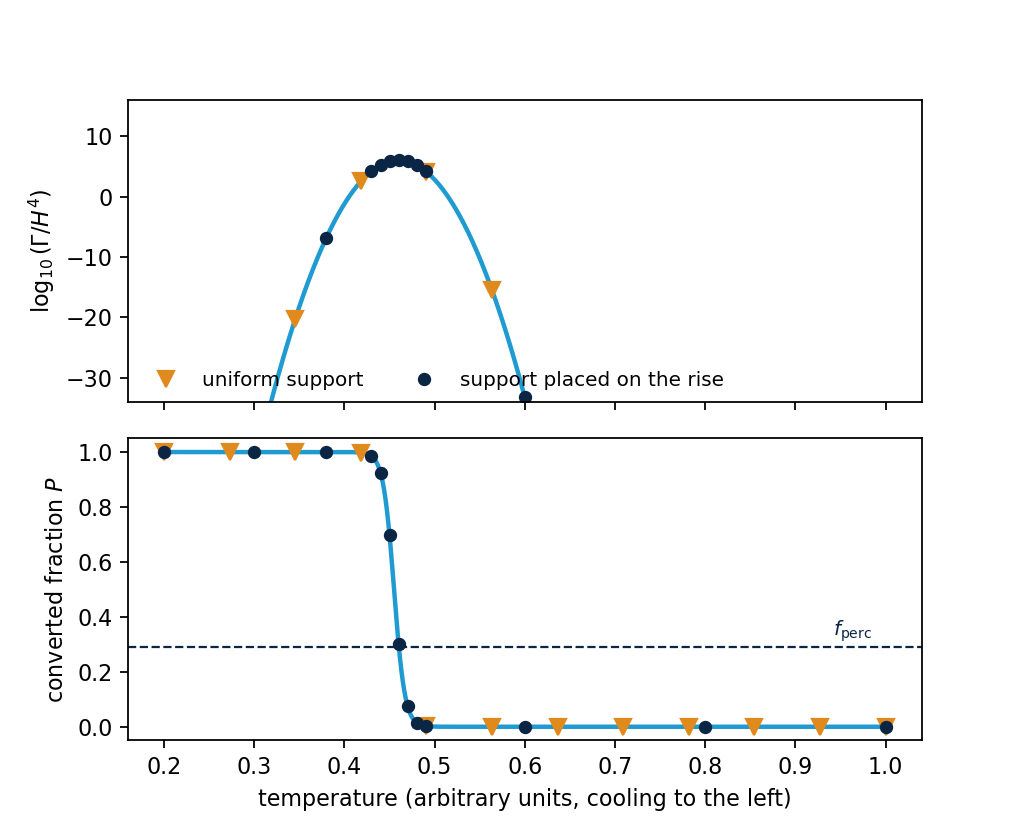
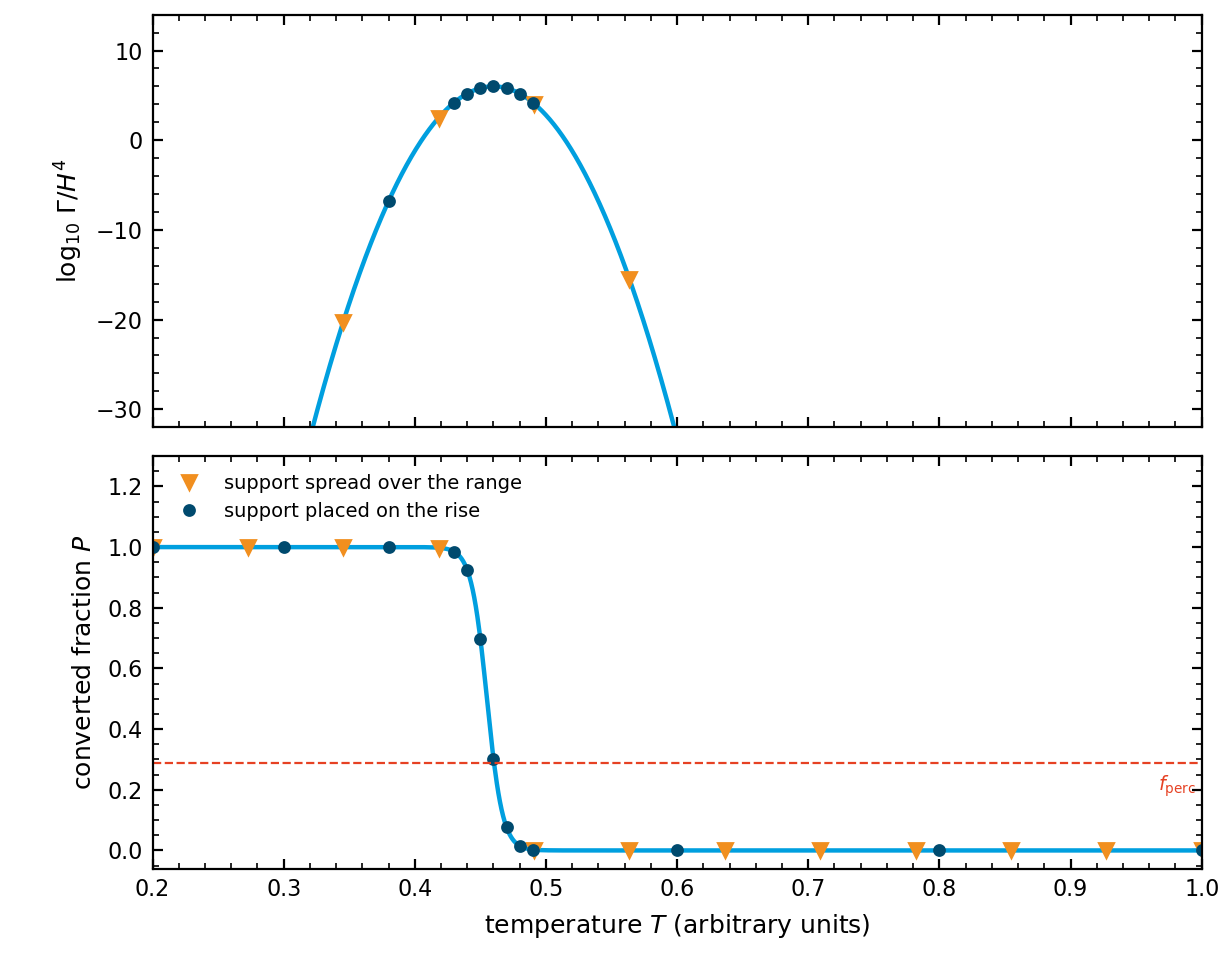
Show what the shooting does, in the house figure style, and drop the admonitions

diff --git a/docs/make_algorithm_figures.py b/docs/make_algorithm_figures.py
@@ -7,28 +7,46 @@ Run from the repository root with the source tree on the path::
 
 Each figure is written to ``docs/source/_static/`` and is reproducible from this script alone,
 so that a change in the code shows up in the figure rather than being quietly contradicted by
-it. The models used are the ones shipped with the package.
+it. The models are the ones shipped with the package.
+
+The figures follow the house style: sans-serif at 9 pt, ticks inward on all four sides, no
+grid, frameless legends, and the DESY palette from ``transitionlistener.colors``.
 """
 from __future__ import annotations
 
 import pathlib
-import sys
 
 import numpy as np
 import matplotlib
 matplotlib.use("Agg")
+import matplotlib as mpl
 import matplotlib.pyplot as plt
+
+from transitionlistener.colors import (DESYcyan, DESYorange, DESYdunkelblau,
+                                       DESYaubergine, DESYrot)
 
 OUT = pathlib.Path(__file__).resolve().parent / "source" / "_static"
 OUT.mkdir(parents=True, exist_ok=True)
 
-INK = "#0b2545"
-ACCENT = "#1f9bd1"
-WARM = "#e08a1e"
+#: Width of the documentation's text column, in inches.
+WIDTH = 6.1
 
 
-def figure_bounce_profile() -> None:
-    """The bounce profile, with the radius inside which a trial counts as arrived."""
+def use_house_style() -> None:
+    mpl.rcParams.update({
+        "font.size": 9, "axes.labelsize": 9, "axes.titlesize": 9, "legend.fontsize": 7,
+        "xtick.labelsize": 8, "ytick.labelsize": 8,
+        "xtick.direction": "in", "ytick.direction": "in",
+        "xtick.top": True, "ytick.right": True,
+        "xtick.minor.visible": True, "ytick.minor.visible": True,
+        "axes.grid": False, "axes.linewidth": 0.8,
+        "font.family": "sans-serif", "mathtext.fontset": "dejavusans",
+        "axes.unicode_minus": True,
+    })
+
+
+def figure_shooting() -> None:
+    """What the shooting does: an undershoot, an overshoot and the solution."""
     from transitionlistener.tunneling1D import SingleFieldInstanton
 
     def V(phi):
@@ -38,89 +56,115 @@ def figure_bounce_profile() -> None:
         return phi * (phi - 0.2) * (phi - 1.0)
 
     inst = SingleFieldInstanton(1.0, 0.0, V, dV)
-    prof = inst.findProfile()
-    r, phi = prof.R, prof.Phi
+    solved = inst.findProfile()
+    delta_phi = inst.phi_metaMin - inst.phi_absMin
+    x_solved = -np.log(abs(solved.Phi[0] - inst.phi_absMin) / abs(delta_phi))
+    rmax = solved.R[-1]
 
-    # the acceptance radius the integration uses, as the page describes it
-    phitol = 1e-10
-    excursion = abs(phi[0] - inst.phi_metaMin)
-    epsabs = phitol * excursion
-    band = 3 * epsabs
+    def trial(x):
+        """Integrate one trial until it over- or undershoots, and save that much of it.
 
-    fig, ax = plt.subplots(figsize=(6.4, 4.0))
-    ax.plot(r, phi, color=ACCENT, lw=2.2, label=r"$\phi(r)$")
-    ax.axhline(inst.phi_metaMin, color=INK, lw=1.0, ls="--",
-               label=r"false vacuum $\phi_{\rm false}$")
-    ax.axhline(inst.phi_absMin, color=INK, lw=1.0, ls=":",
-               label=r"true vacuum $\phi_{\rm true}$")
+        A trial cannot be integrated to a fixed outer radius: an overshoot runs past the false
+        vacuum and the field then diverges. `integrateProfile` is what finds where the trial
+        ends, and only that interval is saved.
+        """
+        delta_phi0 = np.exp(-x) * delta_phi
+        r0, phi0, dphi0 = inst.initialConditions(delta_phi0, 1e-4, 1e-3 * delta_phi)
+        y0 = np.array([phi0, dphi0])
+        epsfrac = np.array([1.0, 1.0]) * 1e-8
+        epsabs = np.abs(np.array([delta_phi, delta_phi / inst.rscale]) * 1e-8)
+        rf, _, ctype = inst.integrateProfile(
+            r0, y0, 1e-4, epsfrac, epsabs, 1e-12, 10 * rmax)
+        R = np.linspace(r0, rf, 400)
+        prof = inst.integrateAndSaveProfile(R, y0, 1e-4, epsfrac, epsabs, 1e-12)
+        return prof.R, prof.Phi, ctype
 
-    # the acceptance band is far too narrow to see at this tolerance, so it is annotated
-    ax.annotate(
-        "a trial counts as arrived inside\n"
-        r"$3\,\epsilon_{\rm abs} = 3\,\phi_{\rm tol}\,|\phi(0)-\phi_{\rm false}|$"
-        "\n(too narrow to draw here)",
-        xy=(r[-1], inst.phi_metaMin), xytext=(0.52 * r[-1], 0.33),
-        color=INK, fontsize=9,
-        arrowprops=dict(arrowstyle="->", color=INK, lw=1.0))
+    use_house_style()
+    fig, ax = plt.subplots(figsize=(WIDTH, 0.58 * WIDTH))
 
-    ax.annotate(r"$\phi(0)$, the shooting unknown",
-                xy=(r[0], phi[0]), xytext=(0.12 * r[-1], 0.80),
-                color=WARM, fontsize=9,
-                arrowprops=dict(arrowstyle="->", color=WARM, lw=1.0))
+    # phi(0) = phi_true + exp(-x) (phi_false - phi_true), so a larger x starts nearer the
+    # true vacuum, with more energy, and overshoots.
+    r_o, p_o, c_o = trial(x_solved * 1.30)
+    r_u, p_u, c_u = trial(x_solved * 0.78)
+    assert c_u == "undershoot" and c_o == "overshoot", (c_u, c_o)
+
+    ax.plot(r_u, p_u, color=DESYorange, lw=1.4,
+            label="undershoot: turns back before the false vacuum")
+    ax.plot(r_o, p_o, color=DESYaubergine, lw=1.4,
+            label="overshoot: passes the false vacuum")
+    ax.plot(solved.R, solved.Phi, color=DESYcyan, lw=2.0, label="solution")
+    ax.axhline(inst.phi_metaMin, color=DESYdunkelblau, lw=0.8, ls="--")
 
     ax.set_xlabel(r"radius $r$")
     ax.set_ylabel(r"field $\phi$")
-    ax.set_xlim(0, r[-1])
-    ax.set_ylim(-0.05, 1.30)          # headroom so the legend clears the true-vacuum line
-    ax.legend(frameon=False, loc="upper right", fontsize=9)
-    fig.tight_layout()
-    fig.savefig(OUT / "algorithm_bounce_profile.png", dpi=160)
+    ax.set_xlim(0, rmax)
+    ax.set_ylim(-0.12, 1.06)
+    ax.text(0.04 * rmax, -0.075, "false vacuum", color=DESYdunkelblau, fontsize=7,
+            ha="left", va="center")
+    ax.legend(frameon=False, loc="upper right")
+    fig.subplots_adjust(left=0.105, right=0.985, bottom=0.145, top=0.975)
+    fig.savefig(OUT / "algorithm_shooting.png", dpi=200)
     plt.close(fig)
-    print("wrote", OUT / "algorithm_bounce_profile.png",
-          "(acceptance band %.3e in field units)" % band)
+    print("wrote", OUT / "algorithm_shooting.png")
 
 
 def figure_rate_and_support() -> None:
-    """Why the support has to resolve the rise of the rate, not the temperature range."""
-    # A schematic built from the shape the integrand actually has: log(Gamma/H^4) rises
-    # steeply, peaks, and dies. No model is run; the point is the shape and the sampling.
-    T = np.linspace(0.2, 1.0, 2000)
-    logG = -40.0 * (T - 0.46) ** 2 / 0.02 + 6.0          # a sharp rise and fall
-    P = 1.0 / (1.0 + np.exp((T - 0.455) / 0.006))        # the converted fraction
+    """Why the support is placed on the rise of the rate."""
+    T = np.linspace(0.20, 1.00, 2000)
+    logG = -40.0 * (T - 0.46) ** 2 / 0.02 + 6.0
+    P = 1.0 / (1.0 + np.exp((T - 0.455) / 0.006))
 
-    uniform = np.linspace(0.2, 1.0, 12)
-    adaptive = np.concatenate([
-        np.array([0.20, 0.30, 0.38]),
-        np.linspace(0.43, 0.49, 7),
-        np.array([0.60, 0.80, 1.00])])
+    uniform = np.linspace(0.20, 1.00, 12)
+    adaptive = np.concatenate([np.array([0.20, 0.30, 0.38]),
+                               np.linspace(0.43, 0.49, 7),
+                               np.array([0.60, 0.80, 1.00])])
 
-    fig, (a1, a2) = plt.subplots(2, 1, figsize=(6.4, 5.2), sharex=True,
-                                 gridspec_kw=dict(hspace=0.12))
-    a1.plot(T, logG, color=ACCENT, lw=2.0)
-    a1.set_ylabel(r"$\log_{10}(\Gamma/H^4)$")
-    a1.set_ylim(-34, 16)
-    a1.plot(uniform, np.interp(uniform, T, logG), "v", color=WARM, ms=7,
-            label="uniform support")
-    a1.plot(adaptive, np.interp(adaptive, T, logG), "o", color=INK, ms=5,
+    use_house_style()
+    fig, (a1, a2) = plt.subplots(2, 1, figsize=(WIDTH, 0.80 * WIDTH), sharex=True)
+    a1.plot(T, logG, color=DESYcyan, lw=1.6)
+    a1.plot(uniform, np.interp(uniform, T, logG), "v", color=DESYorange, ms=5, ls="none")
+    a1.plot(adaptive, np.interp(adaptive, T, logG), "o", color=DESYdunkelblau, ms=3.6, ls="none")
+    a1.set_ylabel(r"$\log_{10}\,\Gamma/H^4$")
+    a1.set_ylim(-32, 14)
+    a1.set_xlim(T[0], T[-1])
+
+    a2.plot(T, P, color=DESYcyan, lw=1.6)
+    a2.plot(uniform, np.interp(uniform, T, P), "v", color=DESYorange, ms=5, ls="none",
+            label="support spread over the range")
+    a2.plot(adaptive, np.interp(adaptive, T, P), "o", color=DESYdunkelblau, ms=3.6, ls="none",
             label="support placed on the rise")
-    a1.legend(frameon=False, fontsize=9, loc="lower left", ncol=2,
-              bbox_to_anchor=(0.0, -0.02))
-
-    a2.plot(T, P, color=ACCENT, lw=2.0)
-    a2.plot(uniform, np.interp(uniform, T, P), "v", color=WARM, ms=7)
-    a2.plot(adaptive, np.interp(adaptive, T, P), "o", color=INK, ms=5)
-    a2.axhline(0.28957, color=INK, lw=1.0, ls="--")
-    a2.text(0.985, 0.33, r"$f_{\rm perc}$", color=INK, fontsize=9, ha="right")
+    a2.axhline(0.28957, color=DESYrot, lw=0.8, ls="--")
     a2.set_ylabel(r"converted fraction $P$")
-    a2.set_xlabel("temperature (arbitrary units, cooling to the left)")
-    fig.tight_layout()
-    fig.savefig(OUT / "algorithm_rate_and_support.png", dpi=160)
+    a2.set_xlabel(r"temperature $T$ (arbitrary units)")
+    a2.set_ylim(-0.06, 1.30)
+    a2.set_xlim(T[0], T[-1])
+    a2.text(0.995, 0.255, r"$f_{\mathrm{perc}}$", color=DESYrot, fontsize=7,
+            ha="right", va="top", transform=a2.get_yaxis_transform())
+    a2.legend(frameon=False, loc="upper left")
+
+    fig.subplots_adjust(left=0.125, right=0.985, bottom=0.11, top=0.985, hspace=0.07)
+    fig.savefig(OUT / "algorithm_rate_and_support.png", dpi=200)
     plt.close(fig)
     print("wrote", OUT / "algorithm_rate_and_support.png")
 
 
+def _check(fig, name: str) -> None:
+    """Run the house text checker where it is importable, and say what it found."""
+    try:
+        import sys
+        sys.path.insert(0, "/lhome/ific/t/tasicarl/AccurateAstro-SMBHB-PT-PTA")
+        from smbhb.paper_style import check_text
+    except Exception:
+        return
+    try:
+        bad = check_text(fig)
+    except Exception as exc:
+        print("   check_text could not run on %s: %s" % (name, exc)); return
+    print("   %s: %s" % (name, "no text overlaps" if not bad else bad))
+
+
 def main() -> int:
-    figure_bounce_profile()
+    figure_shooting()
     figure_rate_and_support()
     return 0
 

diff --git a/docs/source/algorithms/the_bounce_action.rst b/docs/source/algorithms/the_bounce_action.rst
@@ -58,15 +58,13 @@ energy: friction stops it before it reaches the false vacuum, and it falls back.
 and it arrives with energy to spare and shoots past. The solution lies between the two, and
 bisecting on the starting value finds it.
 
-.. figure:: ../_static/algorithm_bounce_profile.png
-   :width: 90%
+.. figure:: ../_static/algorithm_shooting.png
+   :width: 100%
    :align: center
 
-   A solved bounce for a thick-walled bubble. The field starts near the true vacuum at the
-   centre and relaxes to the false vacuum at large radius. The shooting unknown is the value at
-   the centre; the distance inside which a trial is accepted as having reached the false vacuum
-   is a fraction of the excursion the bounce covers, which at the default tolerance is far too
-   narrow to draw.
+   One bisection step. A start too far from the true vacuum leaves the field without the energy
+   to reach the false one, and friction turns it back. A start too near it arrives with energy
+   to spare and passes through. The solution lies between the two.
 
 Three details make this work in practice.
 
@@ -97,16 +95,6 @@ within a small distance of the false vacuum at rest, and the trial has converged
    against the distance between the two minima. The distance between the minima is a property
    of the potential; the width of the barrier is set by the temperature, and on a strongly
    supercooled transition the two differ by orders of magnitude.
-
-.. admonition:: Results from 2.1 are affected
-   :class: caution
-
-   The distance inside which a trial counted as having arrived was a fixed fraction of the gap
-   between the minima. As a transition supercools the bounce shrinks while the gap does not, so
-   that distance grew relative to the thing it was judging. A trial could be accepted as having
-   reached the false vacuum while still a sizeable fraction of the whole bounce away from it,
-   and the action then came back as zero, which reads downstream as no tunnelling at all rather
-   than as a failure to resolve it.
 
 In several field directions
 ---------------------------

diff --git a/docs/source/algorithms/phases_and_transitions.rst b/docs/source/algorithms/phases_and_transitions.rst
@@ -58,15 +58,6 @@ ordinary.
 The remedy is to put each traced phase on a canonical image as a whole, rather than point by
 point, so that the pairing handed to the bounce solver is the physical one.
 
-.. admonition:: Results from 2.1 are affected
-   :class: caution
-
-   Two phases of the same transition could be traced onto different images, and the bounce was
-   then computed along a path running between images. On a two-Higgs-doublet benchmark this
-   gave an action more than twice the one along the path the field actually takes, which in the
-   exponent of a nucleation rate is an enormous factor, and the transition was reported as far
-   slower than it is.
-
 .. versionchanged:: 2.2
    A whole traced phase is put on its canonical image, chosen from the potential rather than
    from the order in which points were traced. Phases that are their own mirror image are

diff --git a/docs/source/algorithms/the_effective_potential.rst b/docs/source/algorithms/the_effective_potential.rst
@@ -108,16 +108,6 @@ with respect to temperature, taken by finite differences.
    The step is now chosen from the size of the temperature-independent part of the potential
    rather than as a fixed fraction of the temperature.
 
-.. admonition:: Results from 2.1 are affected
-   :class: caution
-
-   In the broken phase of a strongly supercooled transition the potential is dominated by a
-   large, temperature-independent vacuum term. A finite difference then subtracts two nearly
-   equal numbers, and with a step chosen as a fraction of the temperature the result was
-   round-off rather than a derivative. The sound speed, which divides by a second temperature
-   derivative, is where that first became visible: it came out dependent on the step, sometimes
-   above the speed of light, and at low enough temperature it came out as not-a-number.
-
 Settings
 --------
 

diff --git a/docs/source/algorithms/the_plasma.rst b/docs/source/algorithms/the_plasma.rst
@@ -75,15 +75,6 @@ continues to supply the light species at the temperature in question.
    were skipped, and the ghosts were kept. All modes are now counted and one ghost per gauge
    boson is subtracted, which is the gauge counting the energy density had always used.
 
-.. admonition:: Results from 2.1 are affected
-   :class: caution
-
-   The energy density counted the photon twice, once in the potential and once in the table,
-   while the entropy counted almost none of the Standard Model fields of the potential: the
-   frozen tables still held what remained of the tau and the bottom at the freezing
-   temperature, and nothing of the W, the Z, the top or the Higgs. The expansion history and
-   the reheating temperature were computed from those counts.
-
 In the code
 -----------
 
